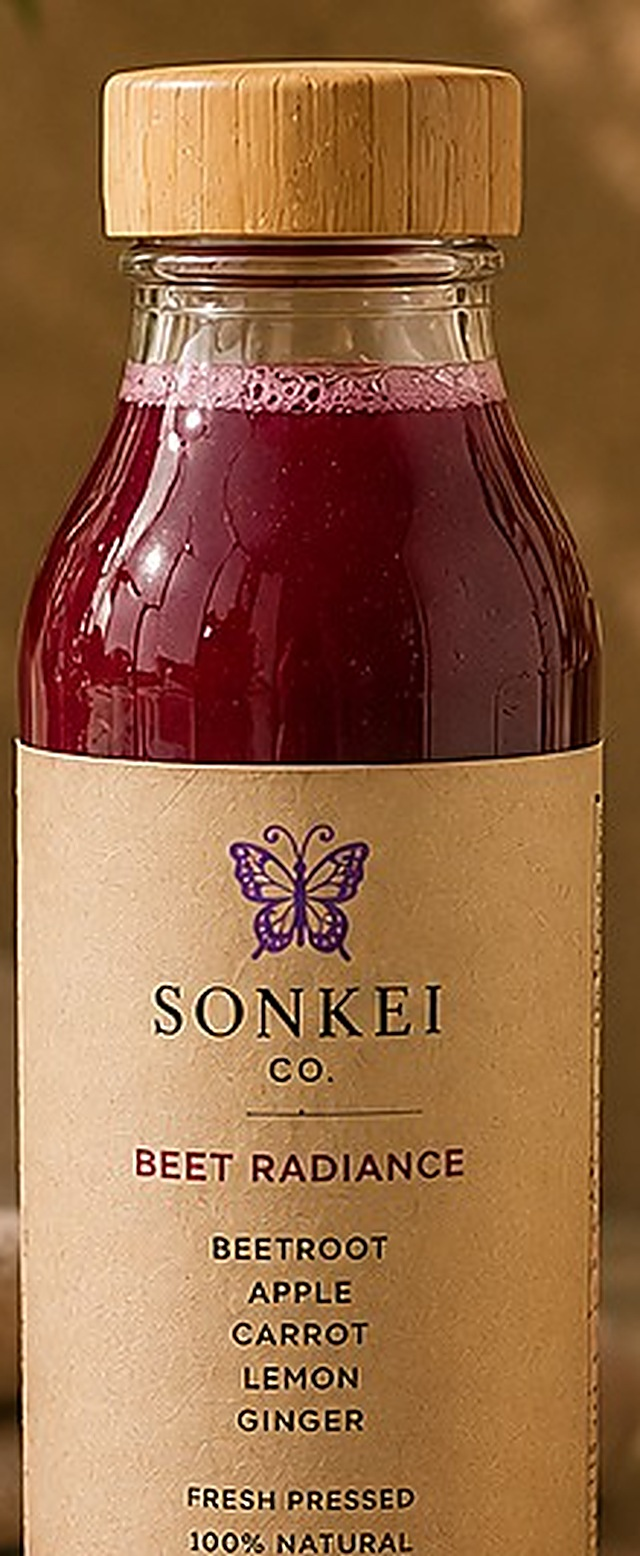
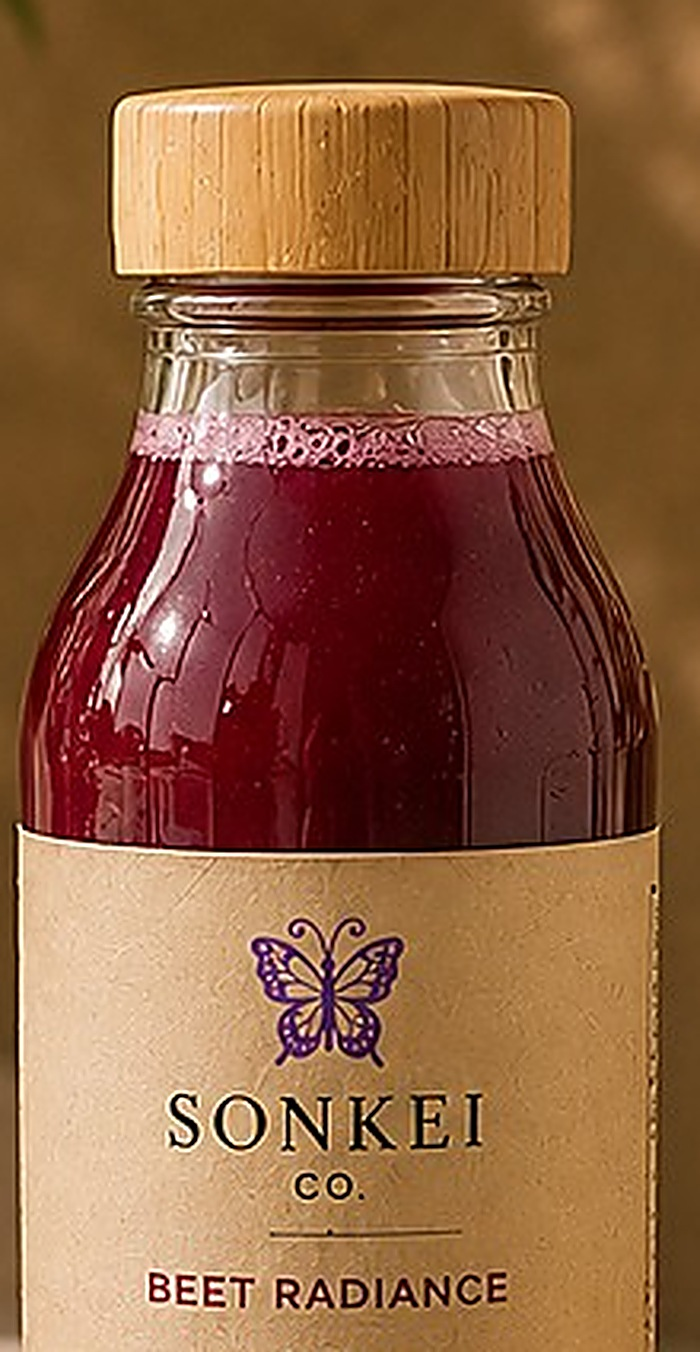
Add files via upload

diff --git a/juices.html b/juices.html
@@ -26,8 +26,8 @@
 
   .nt-grid{ display:grid; grid-template-columns:repeat(3, minmax(200px,1fr)); gap:28px; padding:44px 0 20px; }
   .p-card{ display:flex; flex-direction:column; }
-  .p-stage{ position:relative; border-radius:6px; padding-top:135%; background:var(--offwhite); overflow:hidden; display:block; }
-  .p-stage img{ position:absolute; inset:0; width:100%; height:100%; object-fit:cover; object-position:50% 30%; transition:transform 0.5s ease; }
+  .p-stage{ position:relative; border-radius:6px; padding-top:165%; background:var(--offwhite); overflow:hidden; display:block; }
+  .p-stage img{ position:absolute; inset:0; width:100%; height:100%; object-fit:cover; object-position:50% 100%; transition:transform 0.5s ease; }
   .p-stage:hover img{ transform:scale(1.04); }
   .p-info{ margin-top:16px; text-align:left; }
   .p-info .cat{ font-size:11px; letter-spacing:0.08em; color:var(--tan); text-transform:uppercase; }
